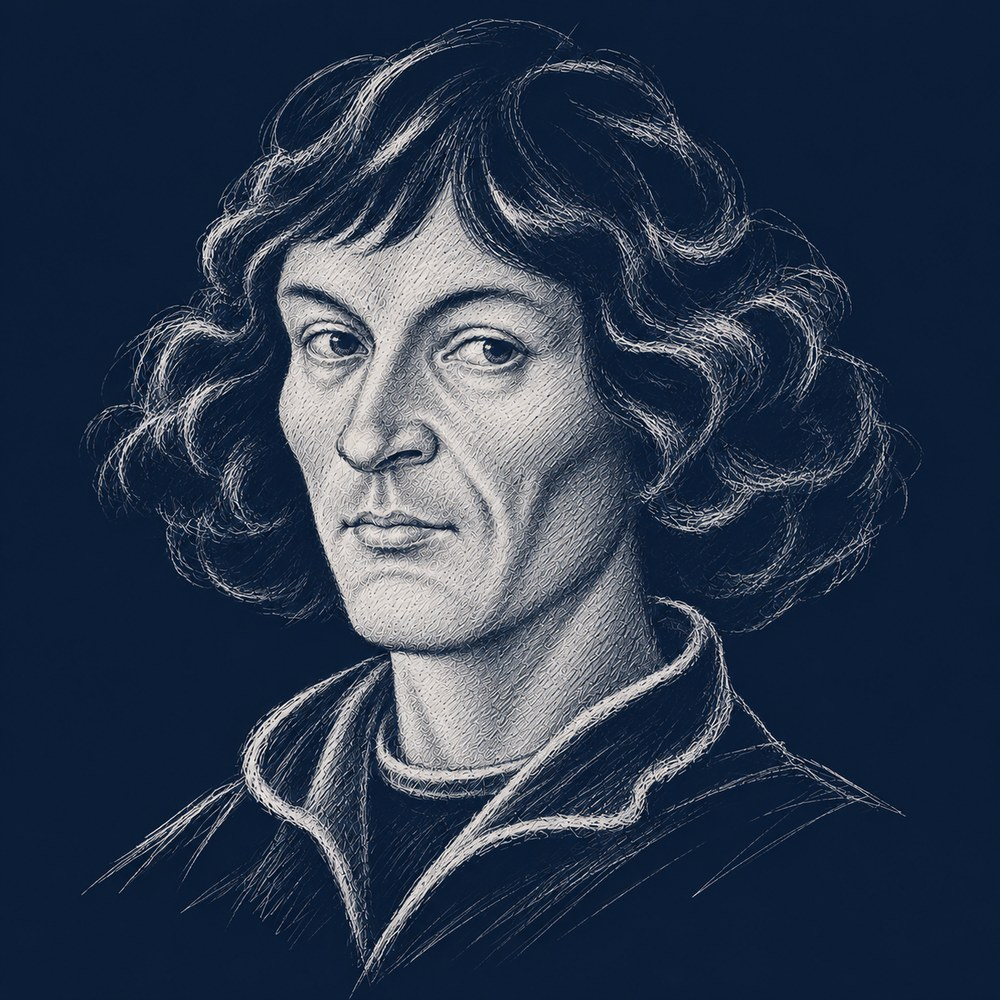
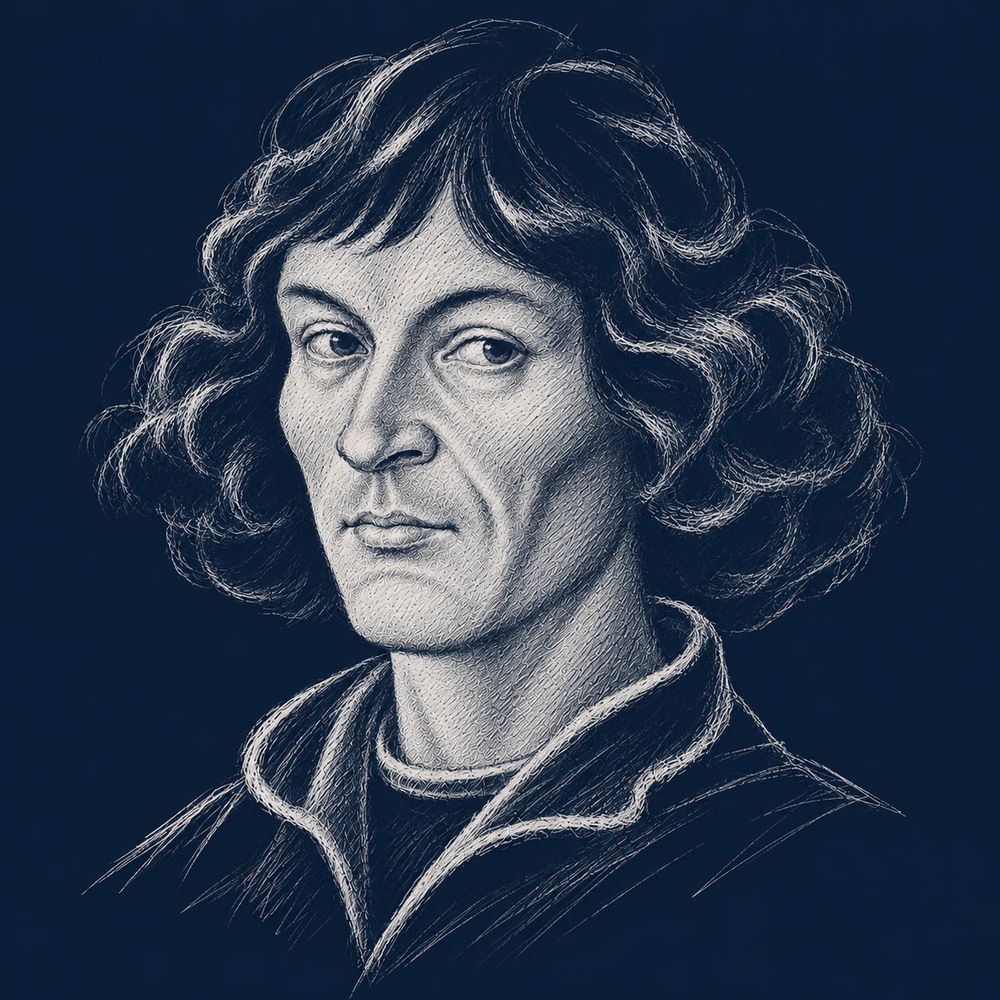
Nowe postacie: Ignacy Jan Paderewski i Roman Dmowski (kategoria Polityka); portrety jako lekkie JPG; tło nagłówka i karty dopasowane do odcienia szkicu; wydarzenia 1918 i 1919
Claude-Session: https://claude.ai/code/session_01FbeYBkkNH283XvMnkCGoi4

diff --git a/app/src/data/postacie.ts b/app/src/data/postacie.ts
@@ -3,8 +3,8 @@
  */
 import type { ImageSourcePropType } from 'react-native';
 
-export type Kategoria = 'Nauka' | 'Władcy' | 'Sztuka' | 'Wojsko';
-export const KATEGORIE: Kategoria[] = ['Nauka', 'Władcy', 'Sztuka', 'Wojsko'];
+export type Kategoria = 'Nauka' | 'Władcy' | 'Sztuka' | 'Wojsko' | 'Polityka';
+export const KATEGORIE: Kategoria[] = ['Nauka', 'Władcy', 'Sztuka', 'Wojsko', 'Polityka'];
 
 export type Postac = {
   id: string;
@@ -17,6 +17,8 @@ export type Postac = {
   portret?: ImageSourcePropType;
   /** Środek twarzy na szkicu (0–1), do wycinania okrągłego avatara */
   twarz?: { x: number; y: number };
+  /** Kolor tła szkicu — nagłówek i karta przyjmują dokładnie ten odcień */
+  tlo?: string;
   opis?: string;
   zyciorys?: string;
   kalendarium?: { rok: string; tekst: string }[];
@@ -28,6 +30,30 @@ export const postacie: Postac[] = [
   { id: 'adam-mickiewicz', imie: 'Adam Mickiewicz', inicjaly: 'AM', lata: '1798–1855', rola: 'poeta, autor „Pana Tadeusza”', kategoria: 'Sztuka' },
   { id: 'boleslaw-chrobry', imie: 'Bolesław Chrobry', inicjaly: 'BC', lata: 'ok. 967–1025', rola: 'pierwszy król Polski', kategoria: 'Władcy' },
   { id: 'fryderyk-chopin', imie: 'Fryderyk Chopin', inicjaly: 'FC', lata: '1810–1849', rola: 'kompozytor, pianista', kategoria: 'Sztuka', polecana: true },
+  {
+    id: 'ignacy-jan-paderewski',
+    imie: 'Ignacy Jan Paderewski',
+    inicjaly: 'IP',
+    lata: '1860–1941',
+    rola: 'pianista, kompozytor, mąż stanu',
+    kategoria: 'Polityka',
+    portret: require('../../assets/portrety/ignacy-jan-paderewski.jpg'),
+    twarz: { x: 0.5, y: 0.45 },
+    tlo: '#081B3A',
+    opis: 'Pianista światowej sławy i premier odrodzonej Polski',
+    zyciorys:
+      'Jeden z najsłynniejszych pianistów swoich czasów — koncertował na całym świecie. Swoją sławę i majątek oddał sprawie polskiej: zabiegał o niepodległość w Ameryce, a w 1919 r. został premierem i ministrem spraw zagranicznych odrodzonej Rzeczypospolitej.',
+    kalendarium: [
+      { rok: '1860', tekst: 'Przychodzi na świat w Kuryłówce na Podolu, 18 listopada.' },
+      { rok: '1918', tekst: 'Przyjeżdża do Poznania — jego wizyta poprzedza wybuch powstania wielkopolskiego.' },
+      { rok: '1919', tekst: 'Zostaje premierem i ministrem spraw zagranicznych; podpisuje traktat wersalski.' },
+      { rok: '1941', tekst: 'Umiera w Nowym Jorku.' },
+      { rok: '1992', tekst: 'Jego prochy wracają do Polski, do archikatedry warszawskiej.' },
+    ],
+    ciekawostki: [
+      'Jego Menuet G-dur był jednym z najpopularniejszych utworów fortepianowych swoich czasów.',
+    ],
+  },
   { id: 'jan-iii-sobieski', imie: 'Jan III Sobieski', inicjaly: 'JS', lata: '1629–1696', rola: 'król, zwycięzca spod Wiednia', kategoria: 'Władcy' },
   { id: 'jozef-pilsudski', imie: 'Józef Piłsudski', inicjaly: 'JP', lata: '1867–1935', rola: 'Naczelnik Państwa', kategoria: 'Wojsko' },
   {
@@ -40,6 +66,7 @@ export const postacie: Postac[] = [
     polecana: true,
     portret: require('../../assets/portrety/maria-sklodowska-curie.jpg'),
     twarz: { x: 0.51, y: 0.49 },
+    tlo: '#0A1B37',
     opis: 'Fizyczka i chemiczka, dwukrotna laureatka Nagrody Nobla',
     zyciorys:
       'Urodziła się w Warszawie, pod zaborem rosyjskim, gdzie kobiety nie mogły studiować. W Paryżu skończyła studia na Sorbonie i razem z mężem, Piotrem Curie, badała promieniotwórczość. Odkryła dwa nowe pierwiastki — polon i rad.',
@@ -67,6 +94,7 @@ export const postacie: Postac[] = [
     polecana: true,
     portret: require('../../assets/portrety/mikolaj-kopernik.jpg'),
     twarz: { x: 0.47, y: 0.48 },
+    tlo: '#0C1E36',
     opis: 'Astronom, twórca teorii heliocentrycznej',
     zyciorys:
       'Urodził się w Toruniu. Studiował w Krakowie, a potem we Włoszech. W dziele „O obrotach sfer niebieskich” pokazał, że to Ziemia krąży wokół Słońca — i zmienił sposób, w jaki patrzymy na Wszechświat.',
@@ -80,6 +108,28 @@ export const postacie: Postac[] = [
     ciekawostki: [
       'Był nie tylko astronomem: zajmował się też medycyną i ekonomią — opisał zjawisko, w którym gorszy pieniądz wypiera lepszy.',
     ],
+  },
+  {
+    id: 'roman-dmowski',
+    imie: 'Roman Dmowski',
+    inicjaly: 'RD',
+    lata: '1864–1939',
+    rola: 'polityk, współtwórca niepodległości',
+    kategoria: 'Polityka',
+    portret: require('../../assets/portrety/roman-dmowski.jpg'),
+    twarz: { x: 0.52, y: 0.44 },
+    tlo: '#061937',
+    opis: 'Polityk, przywódca Narodowej Demokracji',
+    zyciorys:
+      'Twórca i przywódca obozu narodowego (Narodowej Demokracji). W czasie I wojny światowej zabiegał na Zachodzie o sprawę polską, a w 1919 r. razem z Paderewskim podpisał traktat wersalski. Jego poglądy polityczne do dziś wywołują spory.',
+    kalendarium: [
+      { rok: '1864', tekst: 'Przychodzi na świat w Kamionku pod Warszawą, 9 sierpnia.' },
+      { rok: '1893', tekst: 'Współtworzy Ligę Narodową.' },
+      { rok: '1917', tekst: 'Staje na czele Komitetu Narodowego Polskiego, uznanego przez państwa Ententy.' },
+      { rok: '1919', tekst: 'Podpisuje traktat wersalski w imieniu Polski.' },
+      { rok: '1939', tekst: 'Umiera w Drozdowie, 2 stycznia.' },
+    ],
+    ciekawostki: ['Z wykształcenia był przyrodnikiem — ukończył studia biologiczne w Warszawie.'],
   },
   { id: 'tadeusz-kosciuszko', imie: 'Tadeusz Kościuszko', inicjaly: 'TK', lata: '1746–1817', rola: 'Naczelnik insurekcji 1794', kategoria: 'Wojsko' },
 ];

diff --git a/app/src/data/wydarzenia.ts b/app/src/data/wydarzenia.ts
@@ -62,6 +62,8 @@ export const wydarzenia: Wydarzenie[] = [
   { id: 'nobel-sklodowskiej', rok: 1903, tytul: 'Nobel dla Skłodowskiej-Curie', opis: 'Maria Skłodowska-Curie jako pierwsza kobieta otrzymuje Nagrodę Nobla.', epoka: 'zabory', postacie: ['maria-sklodowska-curie'] },
   // II RP
   { id: 'niepodleglosc', rok: 1918, data: '11 listopada', md: '11-11', tytul: 'Odzyskanie niepodległości', opis: 'Józef Piłsudski obejmuje dowództwo nad wojskiem. Po 123 latach Polska znów jest wolna.', epoka: 'ii-rp', wazne: true, postacie: ['jozef-pilsudski'] },
+  { id: 'powstanie-wielkopolskie', rok: 1918, data: '27 grudnia', md: '12-27', tytul: 'Powstanie wielkopolskie', opis: 'Po przyjeździe Paderewskiego do Poznania wybucha zwycięskie powstanie przeciw Niemcom.', epoka: 'ii-rp', postacie: ['ignacy-jan-paderewski'] },
+  { id: 'traktat-wersalski', rok: 1919, data: '28 czerwca', md: '06-28', tytul: 'Traktat wersalski', opis: 'Paderewski i Dmowski podpisują w imieniu Polski traktat kończący I wojnę światową.', epoka: 'ii-rp', postacie: ['ignacy-jan-paderewski', 'roman-dmowski'] },
   { id: 'bitwa-warszawska', rok: 1920, data: '15 sierpnia', md: '08-15', tytul: 'Bitwa Warszawska', opis: 'Wojsko Polskie zatrzymuje Armię Czerwoną pod Warszawą.', epoka: 'ii-rp', wazne: true },
   { id: 'konstytucja-marcowa', rok: 1921, tytul: 'Konstytucja marcowa', opis: 'Pierwsza konstytucja odrodzonej Rzeczypospolitej.', epoka: 'ii-rp' },
   // Wojna

diff --git a/app/app/postacie/index.tsx b/app/app/postacie/index.tsx
@@ -53,7 +53,7 @@ export default function Postacie() {
             accessibilityRole="link"
             accessibilityLabel={`${p.imie}, ${p.lata}`}
             onPress={() => router.push(`/postacie/${p.id}`)}
-            style={({ pressed }) => ({ width: KARTA_W, height: KARTA_H, borderRadius: 28, overflow: 'hidden', backgroundColor: PORTRET_BG, transform: [{ scale: pressed ? 0.98 : 1 }] })}
+            style={({ pressed }) => ({ width: KARTA_W, height: KARTA_H, borderRadius: 28, overflow: 'hidden', backgroundColor: p.tlo ?? PORTRET_BG, transform: [{ scale: pressed ? 0.98 : 1 }] })}
           >
             <PortretWKarcie postac={p} width={KARTA_W} height={KARTA_H} />
             <Text style={{ position: 'absolute', left: 20, top: 20, fontFamily: F.bodyHeavy, fontSize: 11, letterSpacing: 1.8, color: '#E2C47A' }}>{p.kategoria.toUpperCase()}</Text>

diff --git a/app/app/postacie/[id].tsx b/app/app/postacie/[id].tsx
@@ -48,7 +48,7 @@ export default function PostacSzczegoly() {
     <View style={{ flex: 1, backgroundColor: t.bg }}>
       <ScrollView showsVerticalScrollIndicator={false} contentContainerStyle={{ paddingBottom: insets.bottom + 110 }}>
         {/* Nagłówek: szkic jako tło całej górnej części */}
-        <View style={{ height: naglowekH, backgroundColor: PORTRET_BG, overflow: 'hidden' }}>
+        <View style={{ height: naglowekH, backgroundColor: postac.tlo ?? PORTRET_BG, overflow: 'hidden' }}>
           {postac.portret ? (
             <Image
               source={postac.portret}

diff --git a/app/src/components/Portret.tsx b/app/src/components/Portret.tsx
@@ -47,7 +47,7 @@ export function PortretWKarcie({ postac, width, height }: { postac: Postac; widt
   return (
     <>
       <Image source={postac.portret} style={{ position: 'absolute', width: size, height: size, left: width - size * 0.93, top: height * 0.04 }} />
-      <Zanik kierunek="prawo" style={{ position: 'absolute', left: 0, top: 0, bottom: 0, width: width * 0.45 }} />
+      <Zanik kierunek="prawo" kolor={postac.tlo ?? PORTRET_BG} style={{ position: 'absolute', left: 0, top: 0, bottom: 0, width: width * 0.45 }} />
     </>
   );
 }
